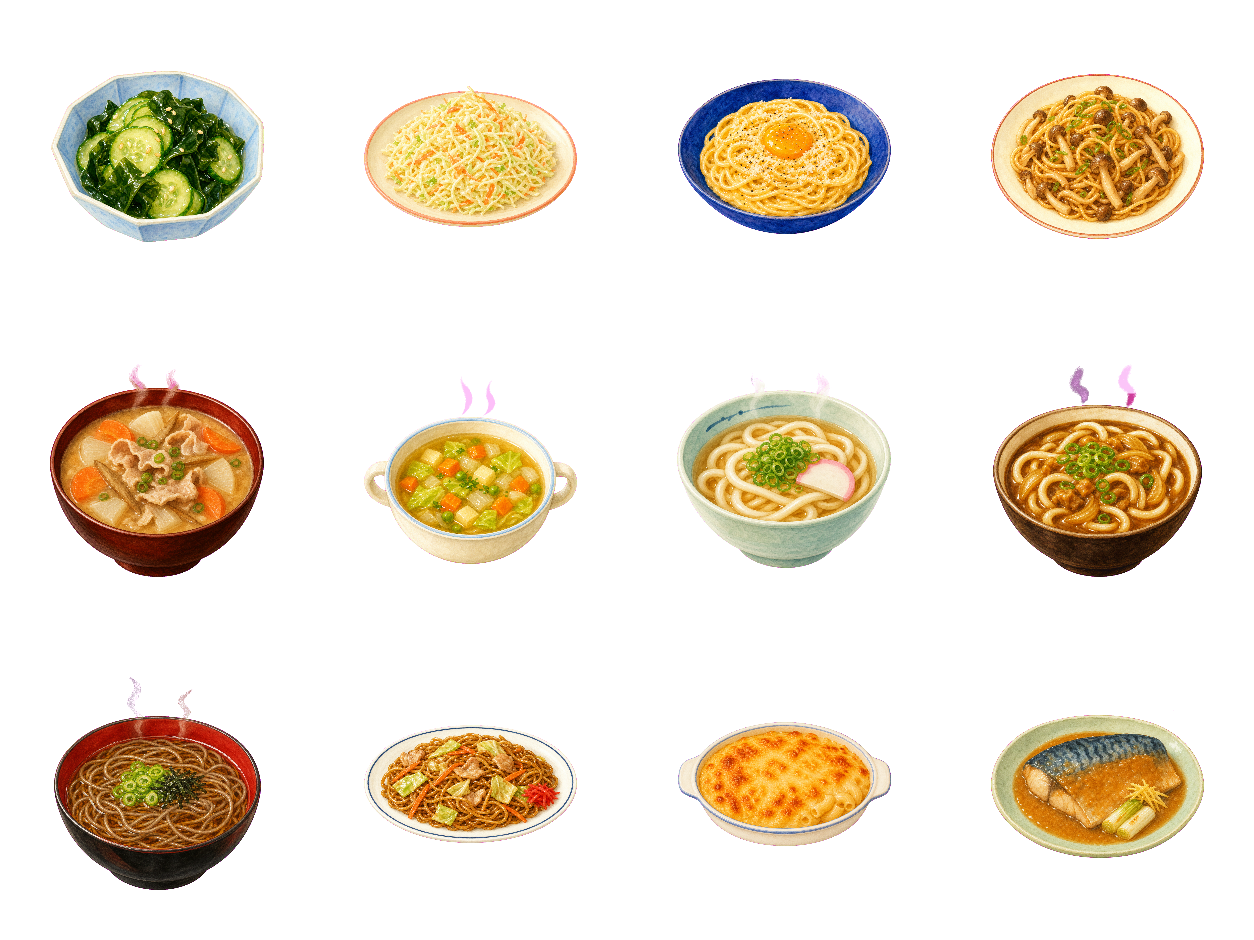
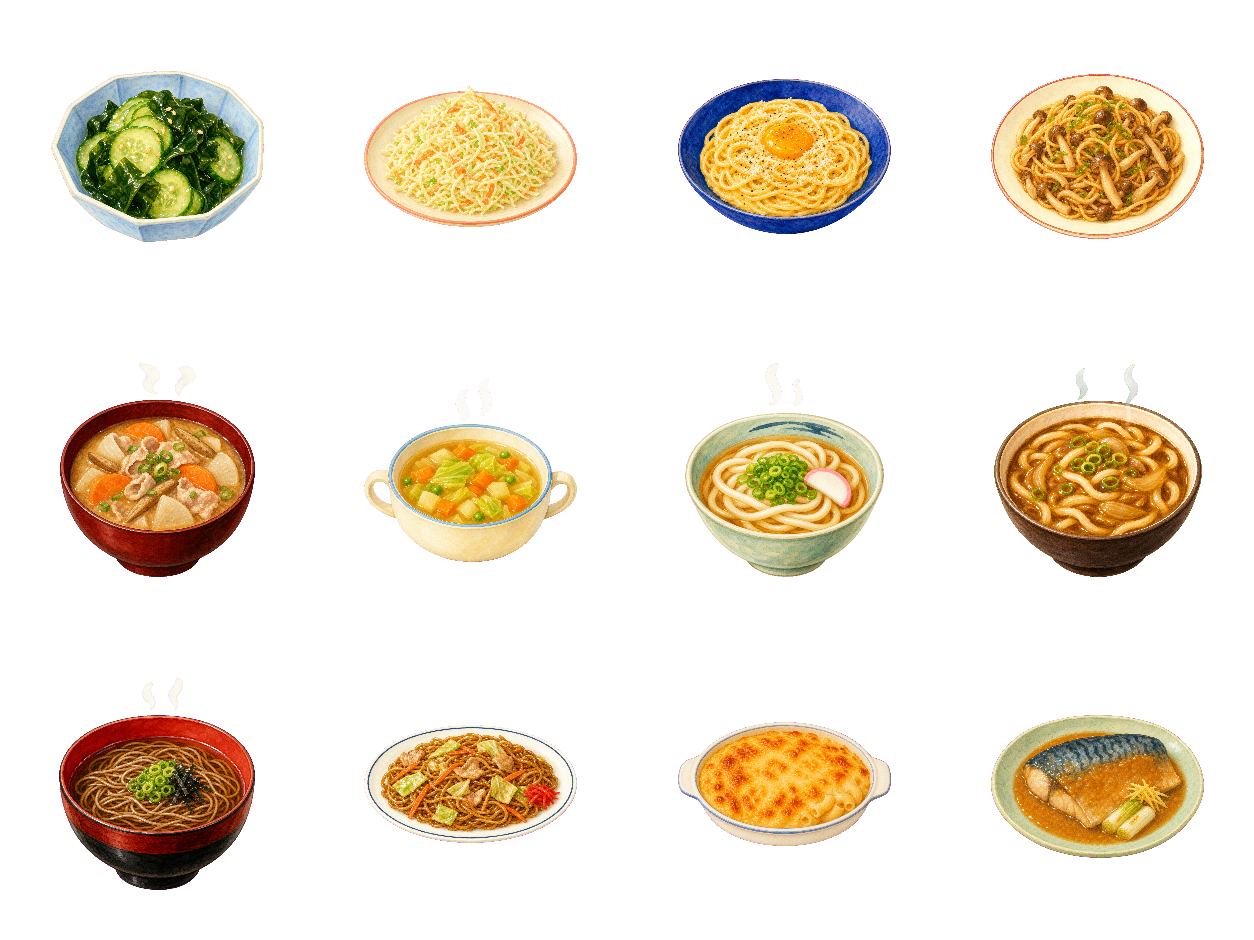
完成イラストを60品へ（r04・r05）
うどん・そば・焼きそば・グラタン・豚汁と、魚と副菜のシート。
Codexは今回、依頼書どおり despill-magenta を通してから納めてきたので、
マゼンタの縁は0px。r03までのような手戻りは無かった。

- 60/77品に絵が付いた。残り17品
- にら玉が「緑が多い」で要確認に出るが、にらそのものなので問題ない
- ツナマヨごはんの器が薄紫だが、マゼンタ判定は反応していない
  （しきい値200/60が紫の器と抜き残しを分けられている裏付け）

なお、直前のバターのコミットに、Codexが作業中だった recipe-atlas-04.png が
git add -A で紛れ込んでいた。どこからも参照していないので表示への影響は
無いが、検証前のものが入っていた。このコミットで検証済みのものへ差し替わる。

diff --git a/app.js b/app.js
@@ -2100,7 +2100,31 @@ const RECIPE_ILLUSTRATIONS = {
   "cheese-omelet": [0, 2, "r03"],
   "potato-salad": [1, 2, "r03"],
   "spinach-sesame": [2, 2, "r03"],
-  "eggplant-miso": [3, 2, "r03"]
+  "eggplant-miso": [3, 2, "r03"],
+  "cucumber-wakame-vinegar": [0, 0, "r04"],
+  coleslaw: [1, 0, "r04"],
+  "carbonara-style": [2, 0, "r04"],
+  "mushroom-butter-pasta": [3, 0, "r04"],
+  "pork-miso-soup": [0, 1, "r04"],
+  "vegetable-consomme": [1, 1, "r04"],
+  "kake-udon": [2, 1, "r04"],
+  "curry-udon": [3, 1, "r04"],
+  "kake-soba": [0, 2, "r04"],
+  "sauce-yakisoba": [1, 2, "r04"],
+  "macaroni-gratin": [2, 2, "r04"],
+  "mackerel-miso": [3, 2, "r04"],
+  "mackerel-salt-grill": [0, 0, "r05"],
+  "yellowtail-teriyaki": [1, 0, "r05"],
+  "yellowtail-daikon": [2, 0, "r05"],
+  "shrimp-chili": [3, 0, "r05"],
+  "shrimp-fried-rice": [0, 1, "r05"],
+  "tuna-mayo-rice": [1, 1, "r05"],
+  "bean-sprout-namul": [2, 1, "r05"],
+  "nira-tama": [3, 1, "r05"],
+  "pumpkin-simmer": [0, 2, "r05"],
+  "pumpkin-salad": [1, 2, "r05"],
+  "konnyaku-piquant": [2, 2, "r05"],
+  "cream-stew": [3, 2, "r05"]
 };
 
 const INGREDIENT_ILLUSTRATIONS = {

diff --git a/sw.js b/sw.js
@@ -4,7 +4,7 @@
 // このファイル自身の内容から書き込む。中身が変わればこのファイルも変わるので、
 // ブラウザが新しい Service Worker と見なして入れ替え、古いキャッシュを捨てる。
 // 手で番号を上げる必要はない。
-const VERSION = "259d8a54";
+const VERSION = "be7c18cd";
 const CACHE = `fridge-leftovers-${VERSION}`;
 
 // index.html が参照するファイル。?v= 付きの実物のパスでないとキャッシュに
@@ -14,8 +14,8 @@ const REFERENCED = [
   "./manifest.json?v=b750de2d",
   "./assets/icons/favicon-32.png?v=a1371f08",
   "./assets/icons/apple-touch-icon.png?v=0db390f0",
-  "./styles.css?v=542ace8d",
-  "./app.js?v=8b9604df"
+  "./styles.css?v=ac322b7f",
+  "./app.js?v=fd38595d"
 ];
 // ここまで自動更新
 

diff --git a/index.html b/index.html
@@ -12,9 +12,9 @@
   <meta name="apple-mobile-web-app-capable" content="yes">
   <meta name="apple-mobile-web-app-status-bar-style" content="default">
   <meta name="apple-mobile-web-app-title" content="冷蔵庫の現在地">
-  <link rel="stylesheet" href="styles.css?v=542ace8d">
+  <link rel="stylesheet" href="styles.css?v=ac322b7f">
   <script src="vendor/tesseract/tesseract.min.js?v=7.0.0" defer></script>
-  <script src="app.js?v=8b9604df" defer></script>
+  <script src="app.js?v=fd38595d" defer></script>
 </head>
 <body>
   <div class="app-shell">

diff --git a/styles.css b/styles.css
@@ -4261,3 +4261,5 @@ input[type="number"] {
 .recipe-illustration-r01 { background-image: url("assets/recipe-atlas-01.png?v=20260731-2"); }
 .recipe-illustration-r02 { background-image: url("assets/recipe-atlas-02.png?v=20260731-2"); }
 .recipe-illustration-r03 { background-image: url("assets/recipe-atlas-03.png?v=20260731-2"); }
+.recipe-illustration-r04 { background-image: url("assets/recipe-atlas-04.png?v=20260801-1"); }
+.recipe-illustration-r05 { background-image: url("assets/recipe-atlas-05.png?v=20260801-1"); }

diff --git a/PRODUCT_DIRECTION.md b/PRODUCT_DIRECTION.md
@@ -145,8 +145,8 @@
 - 実装済み：おすすめ1件と控えめな2件の出し分け、料理名、所要時間、使う食材、不足食材の表示、3手順アコーディオン、外部誘導（Google・YouTubeの検索リンク）
 - 完成イラスト：**表示側は実装済み（2026-07-31）**。おすすめは108px・ほかの候補は76pxで
   料理名の左に出る。絵が無いレシピは従来どおりの表示（RECIPE_ILLUSTRATIONS に
-  無いだけで壊れない）。絵はCodexが生成中で、r01〜r03（36品）を組み込み済み。
-  残り41品はシートが届き次第この表へ足す
+  無いだけで壊れない）。絵はCodexが生成中で、r01〜r05（60品）を組み込み済み。
+  残り17品はシートが届き次第この表へ足す
 
 ## 栄養情報
 
